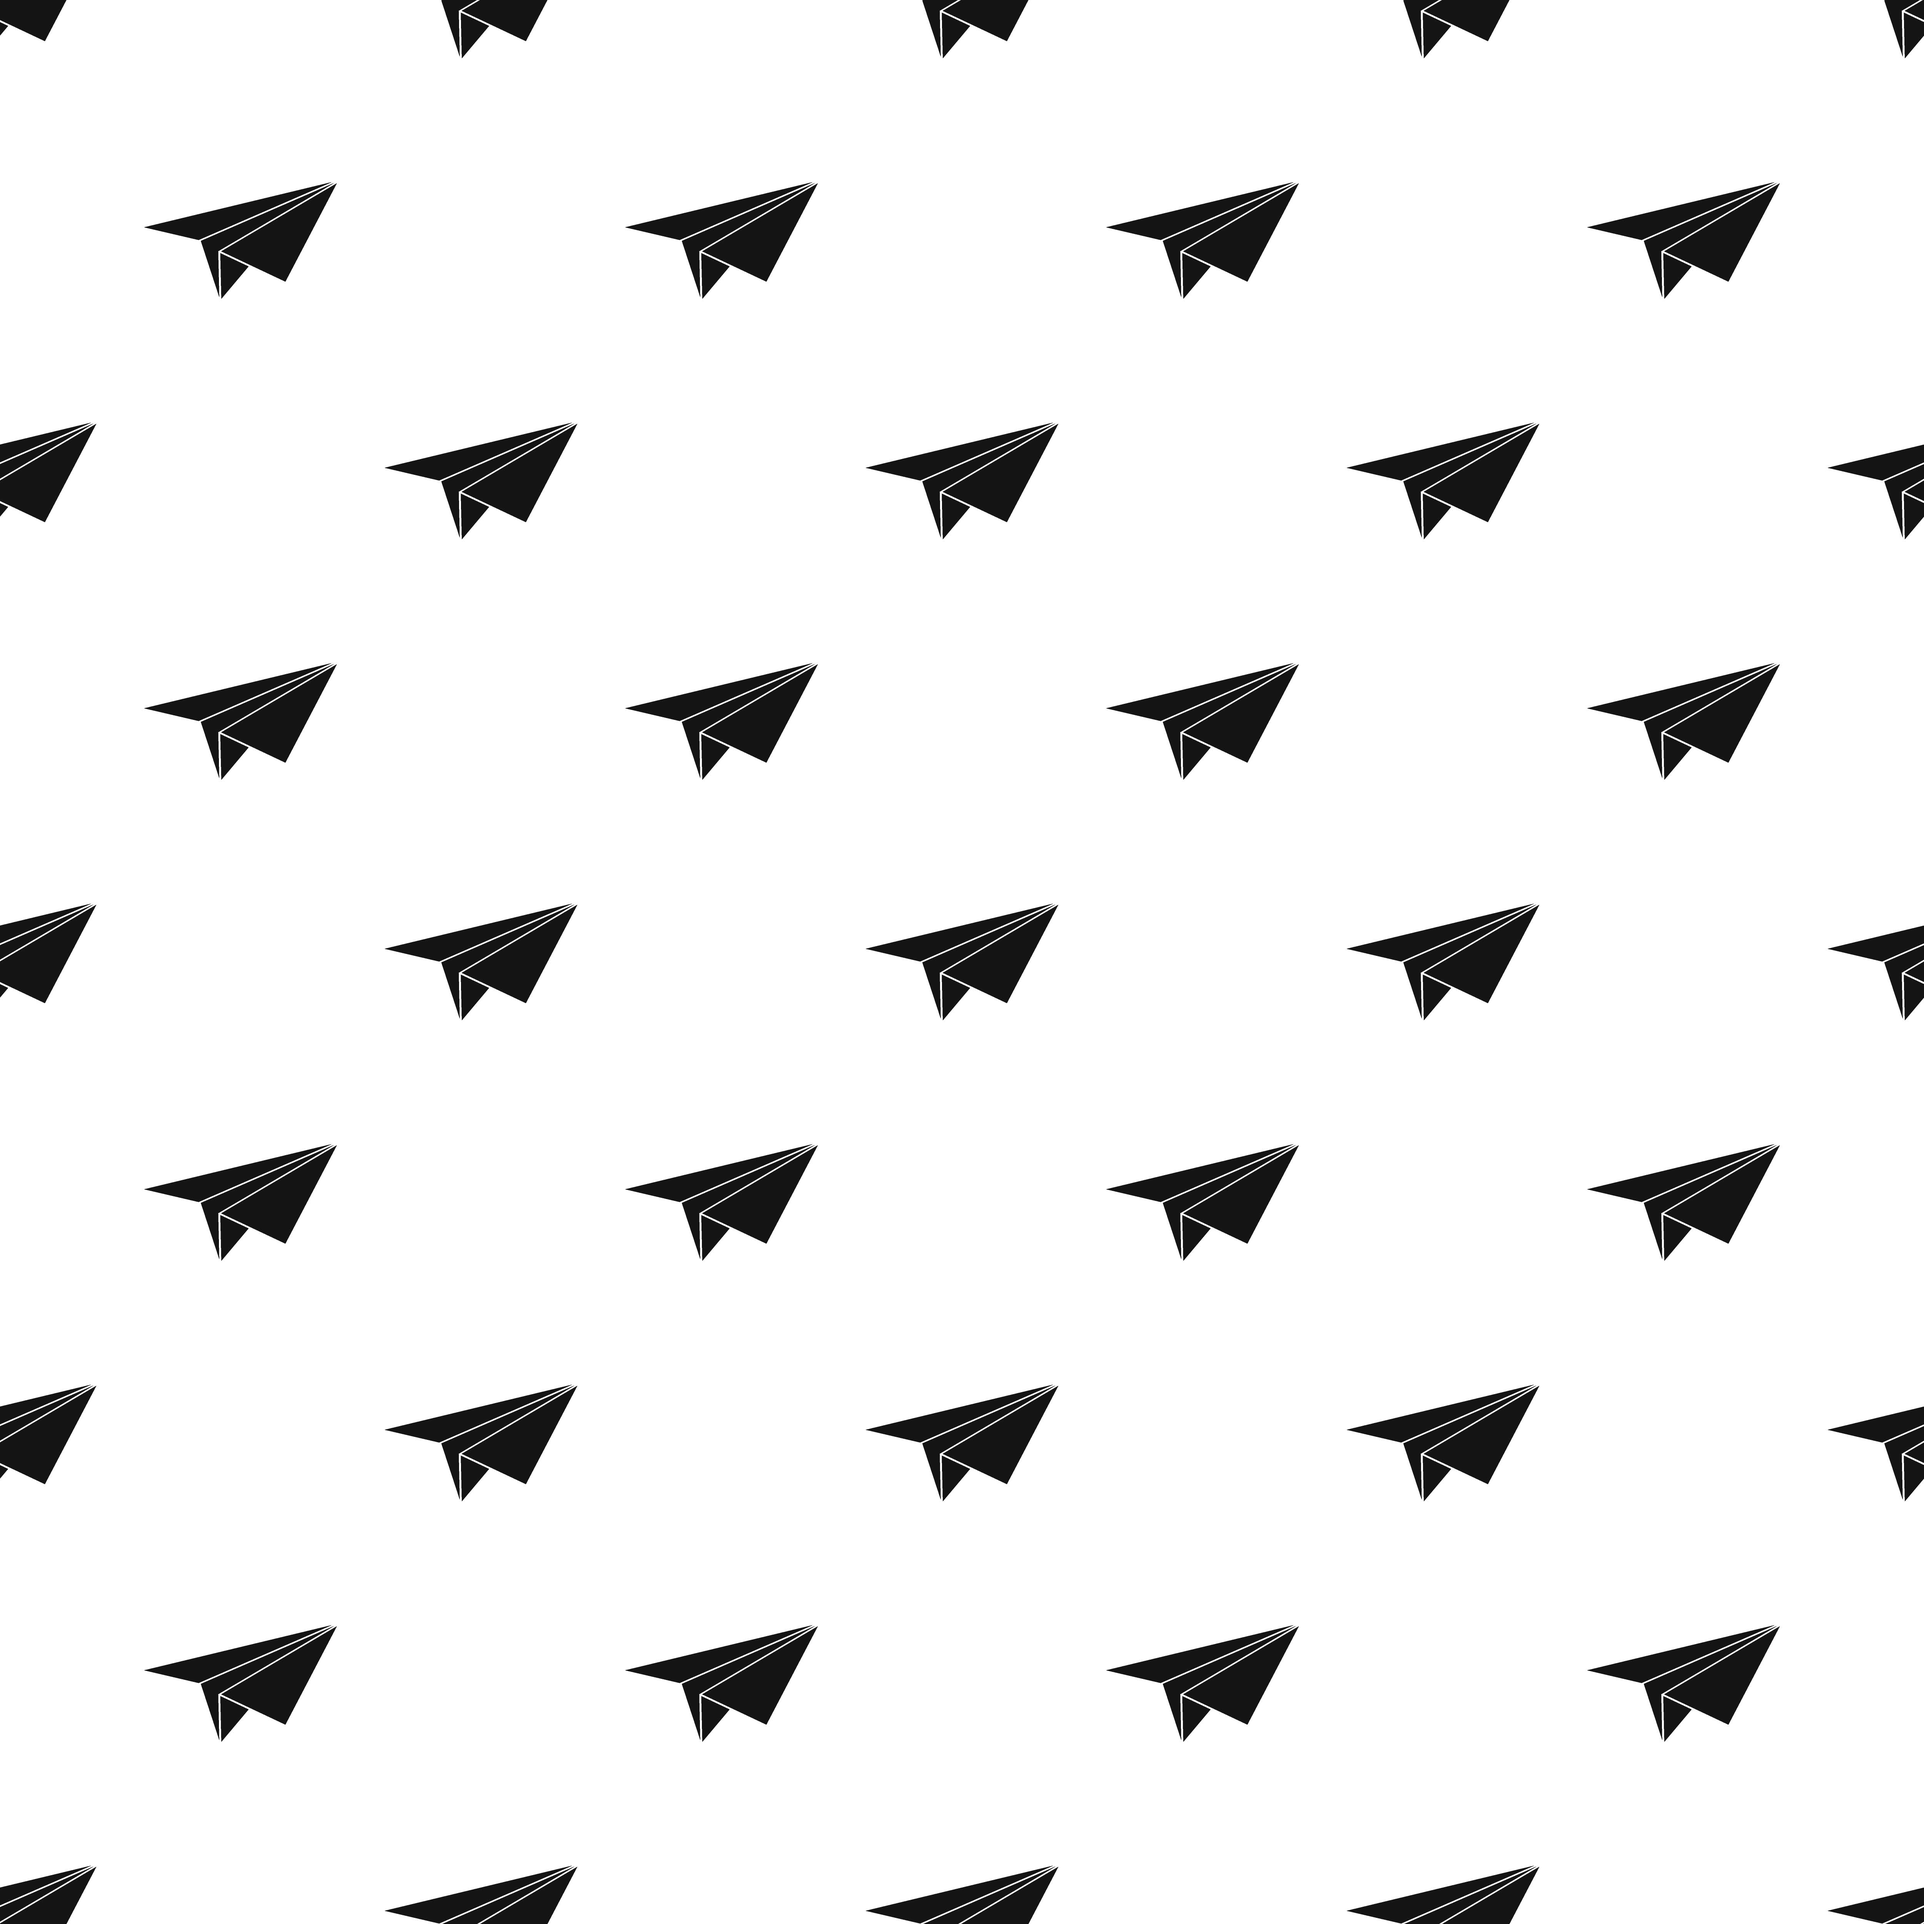
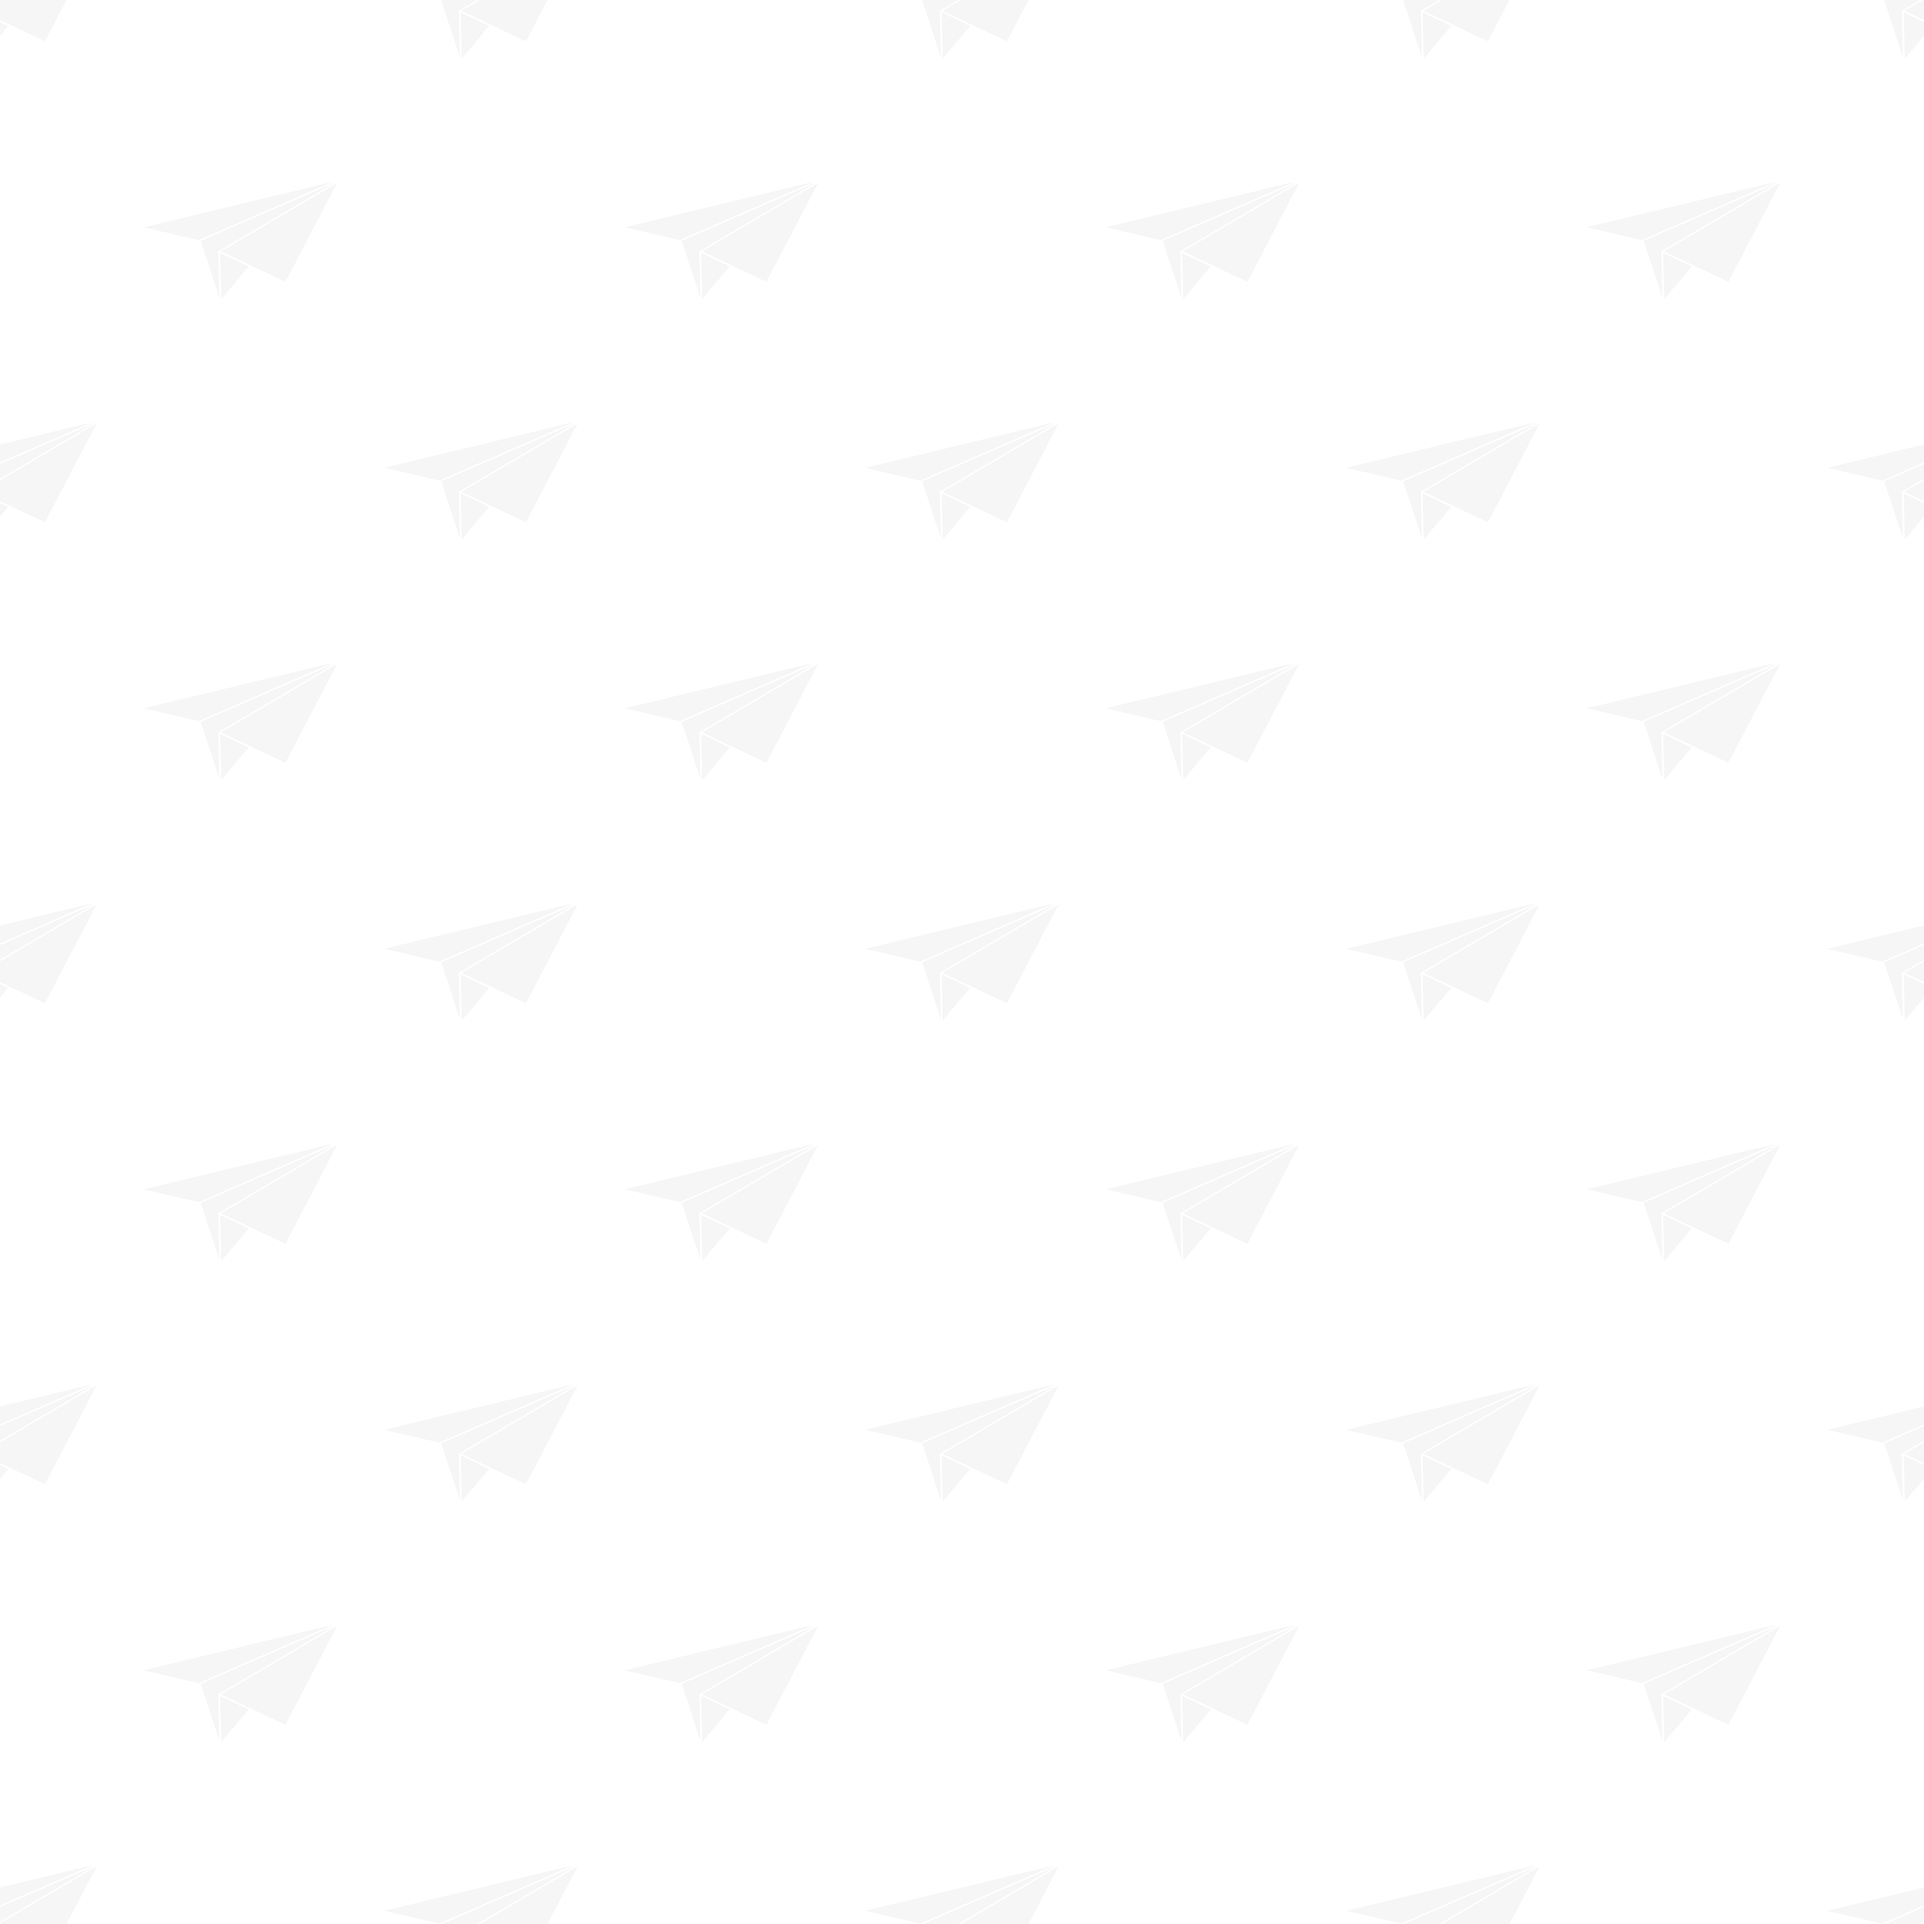
css casi terminado

diff --git a/FrontEnd/src/pages/ProfilePage.jsx b/FrontEnd/src/pages/ProfilePage.jsx
@@ -113,9 +113,12 @@ const ProfilePage = () => {
           {loading ? <p>Cargando Formulario...</p> : null}
           <fieldset
             style={{
+              backgroundColor: "white",
               display: "flex",
               flexDirection: "column",
               justifyContent: "center",
+              width: "370px",
+              height: "500px",
               gap: "1rem",
               padding: "2rem",
               margin: "0.5rem",
@@ -129,6 +132,7 @@ const ProfilePage = () => {
                 fontWeight: "600px",
                 lineHeight: "1.5715",
                 color: "#000000",
+                textAlign: "center",
               }}
             >
               Perfil de usuario
@@ -165,9 +169,12 @@ const ProfilePage = () => {
           </fieldset>
           <fieldset
             style={{
+              backgroundColor: "white",
               display: "flex",
               flexDirection: "column",
               justifyContent: "center",
+              width: "370px",
+              height: "500px",
               gap: "1rem",
               padding: "2rem",
               margin: "0.5rem",
@@ -181,9 +188,10 @@ const ProfilePage = () => {
                 fontWeight: "600px",
                 lineHeight: "1.5715",
                 color: "#000000",
+                textAlign: "center",
               }}
             >
-              Datos Personales
+              Datos personales
             </h2>
             <ul>
               <li className="container-personal">
@@ -250,7 +258,7 @@ const ProfilePage = () => {
               </li>
               <li className="container-personal">
                 <label htmlFor="biografia" className="label-perfil">
-                  Sobre mi
+                  Sobre mí
                 </label>
 
                 <textarea
@@ -270,16 +278,18 @@ const ProfilePage = () => {
                     display: "flex",
                     justifyContent: "center",
                     alignItems: "center",
-
-                    marginRight: "2rem",
+                    backgroundColor: "#D93030",
+                    marginRight: "3rem",
                     gap: "8px",
                     cursor: "pointer",
+                    fontWeight: "bold",
+                    marginTop: "20px",
                   }}
                 >
                   {" "}
                   <FaSyncAlt
                     style={{
-                      color: "blue",
+                      color: "white",
                     }}
                   />{" "}
                   Actualizar
@@ -289,16 +299,19 @@ const ProfilePage = () => {
                   type="button"
                   onClick={handleCancel}
                   style={{
+                    marginTop: "20px",
                     display: "flex",
                     justifyContent: "center",
                     alignItems: "center",
                     gap: "8px",
                     cursor: "pointer",
+                    backgroundColor: "#D93030",
+                    fontWeight: "bold",
                   }}
                 >
                   <FaTimes
                     style={{
-                      color: "red",
+                      color: "white",
                     }}
                   />{" "}
                   Cancelar

diff --git a/FrontEnd/src/pages/LikePages.jsx b/FrontEnd/src/pages/LikePages.jsx
@@ -10,7 +10,8 @@ const LikePages = () => {
   useEffect(() => {
     const fetchVotedRecommendations = async () => {
       try {
-        if (token && userData?.userId) { // Optional chaining used here
+        if (token && userData?.userId) {
+          // Optional chaining used here
           const response = await getVotedRecommendations(
             userData.userId,
             token
@@ -53,6 +54,8 @@ const LikePages = () => {
     padding: "16px",
     marginBottom: "16px", // Remove the duplicate marginBottom property
     minHeight: "250px",
+    borderRadius: "15px",
+    boxShadow: "0 0px 3px rgba(0, 0, 0, 0.5)",
   };
 
   const imageStyle = {
@@ -77,7 +80,15 @@ const LikePages = () => {
             if (result && result.title) {
               return (
                 <li key={result.id}>
-                  <div style={{ ...cardStyle, ...(votedRecommendations.length === 1 && { maxWidth: '400px' }) }}>
+                  <div
+                    style={{
+                      ...cardStyle,
+                      ...(votedRecommendations.length === 1 && {
+                        maxWidth: "400px",
+                        backgroundColor: "white",
+                      }),
+                    }}
+                  >
                     <Link
                       to={`/recommendation/${result.id}`}
                       style={{ textDecoration: "none", color: "inherit" }}
@@ -85,7 +96,9 @@ const LikePages = () => {
                       <img
                         src={
                           result.image
-                            ? `${import.meta.env.VITE_APP_BACKEND}/uploads/${result.image}`
+                            ? `${import.meta.env.VITE_APP_BACKEND}/uploads/${
+                                result.image
+                              }`
                             : "/Subir_foto_recomendacion.jpg"
                         }
                         alt={result.title}

diff --git a/FrontEnd/src/pages/SendEmailPage.jsx b/FrontEnd/src/pages/SendEmailPage.jsx
@@ -1,14 +1,24 @@
 const SendEmailPage = () => {
   return (
-    <>
-      <section
+    <section
+      style={{
+        display: "flex",
+        justifyContent: "start",
+        flexDirection: "column",
+        gap: "2rem",
+        height: "100vh",
+        background: "white",
+      }}
+    >
+      <div
         style={{
           display: "flex",
-          justifyContent: "center",
+          flexDirection: "column",
+          alignItems: "center",
+          margin: "2rem",
           gap: "2rem",
-          marginTop: "2rem",
-          marginBottom: "2rem",
         }}
+        className="email-container"
       >
         <figure>
           <img
@@ -21,9 +31,10 @@ const SendEmailPage = () => {
           style={{
             marginTop: "2rem",
             marginBottom: "2rem",
+            textAlign: "center",
           }}
         >
-          Estas a un paso de Activar tu cuenta. Revisa tu Email.
+          Estás a un paso de activar tu cuenta. Revisa tu email.
         </h2>
         <p>
           <strong>
@@ -50,13 +61,14 @@ const SendEmailPage = () => {
           style={{
             fontSize: "1.5rem",
             color: "blueviolet",
+            textAlign: "center",
           }}
         >
           ¡Esperamos verte pronto en nuestro sitio y que disfrutes de una
           experiencia increíble!
         </p>
-      </section>
-    </>
+      </div>
+    </section>
   );
 };
 

diff --git a/FrontEnd/src/index.css b/FrontEnd/src/index.css
@@ -21,6 +21,12 @@ main {
   overflow-x: hidden;
 }
 
+body {
+  background-image: url(/public/pattern_airplane.png);
+  background-repeat: repeat;
+  background-size: 600px 600px;
+}
+
 ul {
   list-style: none;
 }
@@ -66,6 +72,10 @@ a:visited {
   height: 430px;
   width: 500px;
 }
+
+/* .login-page form fieldset h2 {
+  background-color: black;
+} */
 
 .login-page form ul {
   /* background-color: black; */
@@ -410,10 +420,12 @@ p#details {
 /* Fin ficha de viaje */
 
 .DetailedTrip {
+  background-color: white;
   display: flex;
   flex-direction: column;
   justify-content: start;
   align-items: center;
+  min-height: 100vh;
 }
 .login-page form {
   display: flex;
@@ -566,6 +578,12 @@ p#details {
 
 /* Fin caja de comentarios */
 
+/* New trip */
+
+.new-trip label {
+  font-weight: bold;
+}
+
 /* "Comentarios" y todos sus hijos*/
 .comment-content {
   width: 100%;
@@ -701,7 +719,7 @@ p#details {
     z-index: 9999;
     top: 50%;
     left: 50%;
-    transform: translate(-50%, 9%);
+    transform: translate(-38%, 9%);
   }
 }
 @media (min-width: 600px) {

diff --git a/FrontEnd/src/pages/MyRecommendationsPage.jsx b/FrontEnd/src/pages/MyRecommendationsPage.jsx
@@ -51,8 +51,9 @@ const CreatedRecommendations = () => {
   };
 
   const listStyle = {
+    backgroundColor: "white",
     width: "100%",
-    flex: "1",
+    // flex: "1",
     display: "grid",
     gridTemplateColumns: "repeat(auto-fit, minmax(250px, 1fr))",
     gap: "16px",
@@ -69,6 +70,9 @@ const CreatedRecommendations = () => {
     padding: "16px",
     marginBottom: "16px",
     minHeight: "250px",
+    maxWidth: "350px",
+    borderRadius: "15px",
+    boxShadow: "0 0px 3px rgba(0, 0, 0, 0.5)",
   };
 
   const imageStyle = {
@@ -97,9 +101,11 @@ const CreatedRecommendations = () => {
     marginBottom: "16px",
     padding: "8px",
     borderRadius: "4px",
-    background: "#eee",
+    backgroundColor: "#D93030",
     border: "none",
     cursor: "pointer",
+    color: "white",
+    fontWeight: "bold",
   };
 
   const paginationContainerStyle = {

diff --git a/FrontEnd/src/pages/NotFoundPage.jsx b/FrontEnd/src/pages/NotFoundPage.jsx
@@ -6,15 +6,25 @@ const NotFoundPage = () => {
       <section
         style={{
           display: "flex",
-          justifyContent: "center",
+          justifyContent: "start",
+          alignItems: "center",
+          flexDirection: "column",
           gap: "1rem",
-          marginTop: "2rem",
-          marginBottom: "2rem",
+          margin: "2rem",
+          minHeight: "100vh",
         }}
       >
         <h2>Uups ... Página no encontrada</h2>
-        <img src="page-not-found.png" alt="404" />
-        <Link to="/">Ir a la página de inicio.</Link>
+        <img
+          style={{
+            width: "500px",
+          }}
+          src="page-not-found.png"
+          alt="404"
+        />
+        <Link style={{ color: "#d93030" }} to="/">
+          Ir a la página de inicio.
+        </Link>
       </section>
     </>
   );

diff --git a/FrontEnd/src/pages/CreateRecommendationPage.jsx b/FrontEnd/src/pages/CreateRecommendationPage.jsx
@@ -125,6 +125,7 @@ const CreateRecommendationPage = () => {
 
   return (
     <div
+      className="new-trip"
       style={{
         display: "flex",
         alignItems: "center",
@@ -238,7 +239,8 @@ const CreateRecommendationPage = () => {
         <button
           type="submit"
           style={{
-            backgroundColor: "#4CAF50",
+            backgroundColor: "#d93030",
+            fontWeight: "bold",
             color: "white",
             padding: "10px 20px",
             border: "none",

diff --git a/FrontEnd/src/components/user/AvatarUploader .jsx b/FrontEnd/src/components/user/AvatarUploader .jsx
@@ -29,10 +29,7 @@ const AvatarUploader = ({ handleAction, profile_imagen }) => {
   return (
     <>
       <label htmlFor="fileInput">
-        <FaCameraRetro
-          className="fondo2"
-          title="Descargar Avatar"
-        />
+        <FaCameraRetro className="fondo2" title="Descargar Avatar" />
       </label>
       {image ? (
         <>

diff --git a/FrontEnd/src/pages/EditRecommendationPage.jsx b/FrontEnd/src/pages/EditRecommendationPage.jsx
@@ -239,7 +239,7 @@ const EditRecommendationPage = () => {
           type="submit"
           style={{
             padding: "10px 20px",
-            backgroundColor: "#4CAF50",
+            backgroundColor: "#d93030",
             color: "white",
             border: "none",
             borderRadius: "4px",

diff --git a/FrontEnd/src/components/user/Avatar.jsx b/FrontEnd/src/components/user/Avatar.jsx
@@ -7,6 +7,8 @@ const Avatar = ({ imagen, estilo }) => {
     display: "inline-block",
     backgroundSize: "cover",
     borderRadius: "50%",
+    width: "250px",
+    height: "250px",
     position: "relative",
     objectFit: "cover",
     ...estilo, // Fusionar el estilo pasado desde el componente padre

diff --git a/FrontEnd/src/components/layout/BurguerMenu.jsx b/FrontEnd/src/components/layout/BurguerMenu.jsx
@@ -73,8 +73,8 @@ const BurgerMenu = () => {
           id="ul-burguer"
           ref={menuRef}
           style={{
-            top: "100%",
-            left: 0,
+            top: 41,
+            left: -25,
             backgroundColor: "white",
             listStyle: "none",
             padding: 0,

diff --git a/FrontEnd/index.html b/FrontEnd/index.html
@@ -4,7 +4,7 @@
     <meta charset="UTF-8" />
     <link rel="icon" type="image/svg+xml" href="icono.png" />
     <meta name="viewport" content="width=device-width, initial-scale=1.0" />
-    <title>Triptip</title>
+    <title>TripTip</title>
     <base href="/" />
   </head>
   <body>
